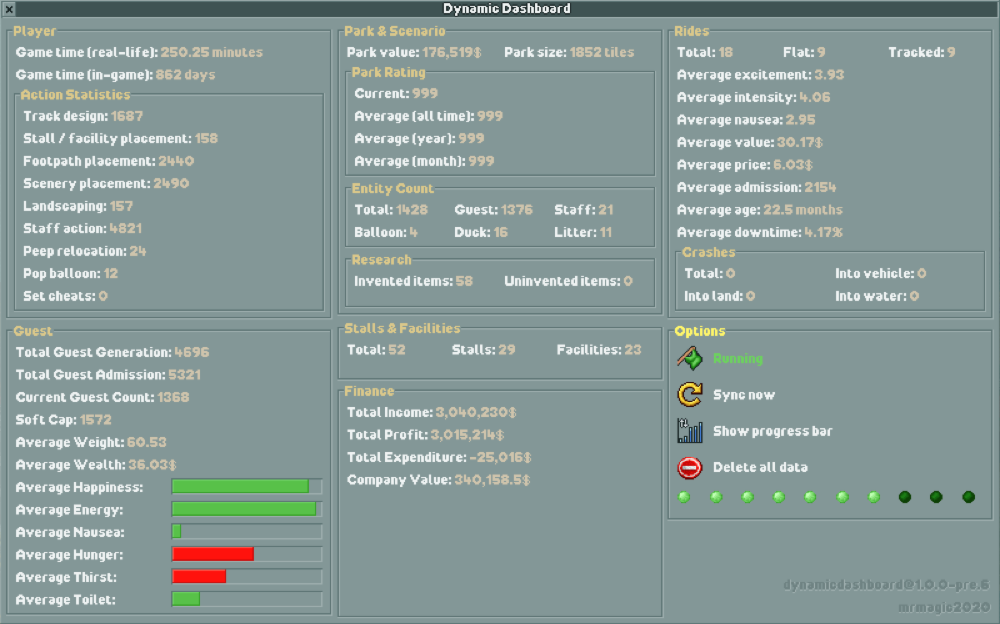
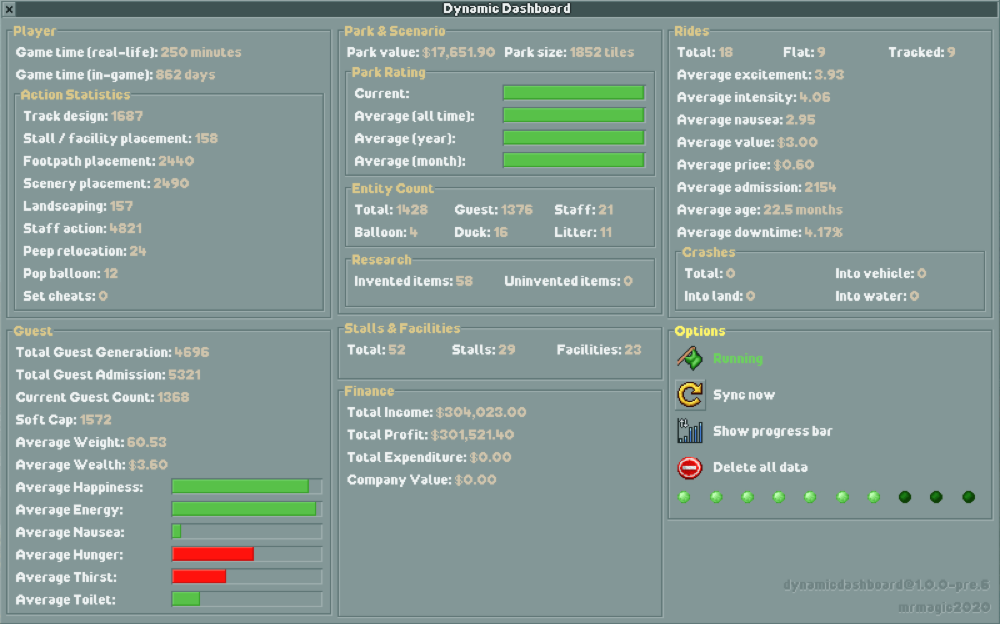
chore: update assets

diff --git a/README.md b/README.md
@@ -87,7 +87,7 @@ Use this button to update statistics manually. Disabled when [Update Mode](#upda
 ![show_progressbar](https://github.com/mrmagic2020/openrct2-dynamicdashboard/blob/develop/Assets/show_progressbar.png?raw=true)
 ![show_value](https://github.com/mrmagic2020/openrct2-dynamicdashboard/blob/develop/Assets/show_value.png?raw=true)
 
-Toggles progress bar / exact value display for applicable statistics (currently supports guest stats).
+Toggles progress bar / exact value display for applicable statistics.
 
 > [!TIP]
 > If your progress bar looks weird, try changing your render mode to **OpenGL** in the options menu.
